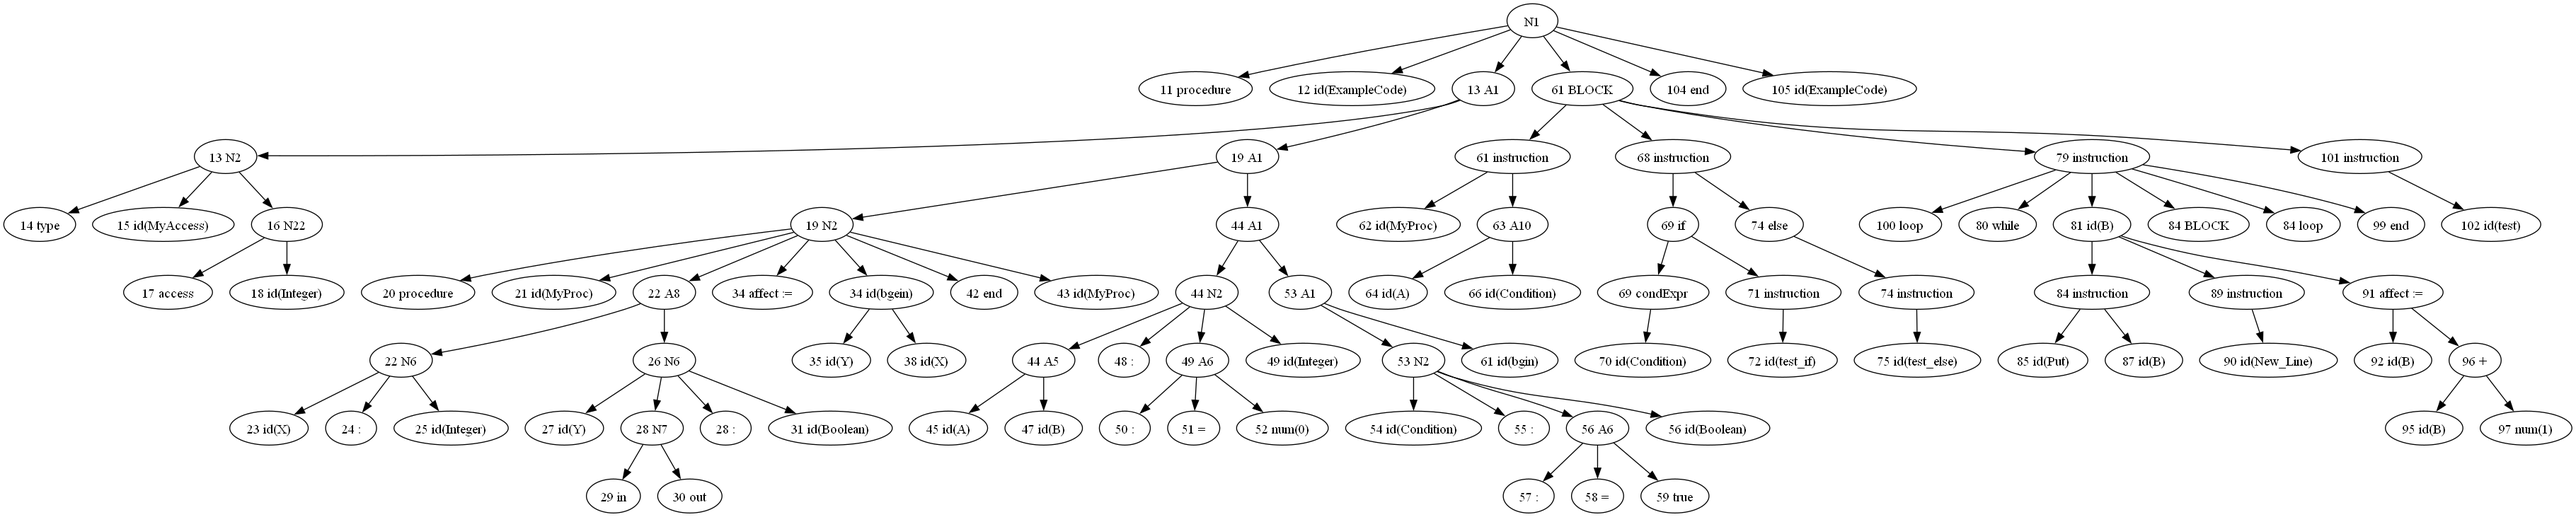
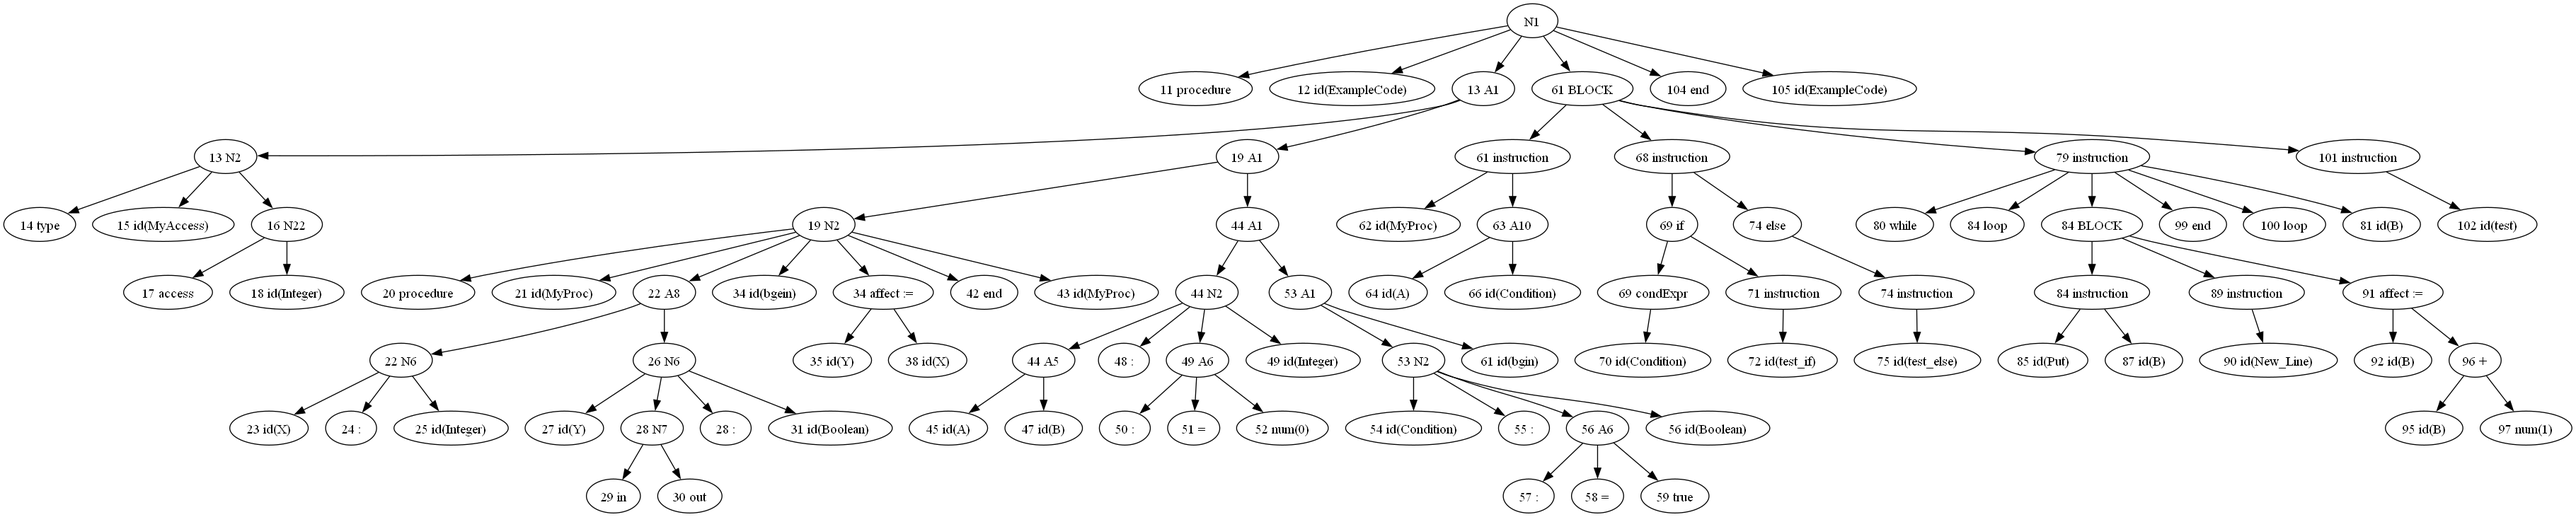
modif

diff --git a/parseur/main_parseur.py b/parseur/main_parseur.py
@@ -179,25 +179,19 @@ def generate_final_AST(root):
     for i in range(h):
         for node in PostOrderIter(root):
             clean(node)
-
-
     for node in PreOrderIter(root):
         if node.name != "N1":
             operation(node)
-
     for i in range(0, 2):
         for node in PreOrderIter(root):
             if node.name != "N1":
                 name = node.name.split(" ")
                 if name[1][:4] == "EXPR":
                     operation(node)
-
-
     for i in range(0, 5):
         for node in PreOrderIter(root):
             if node.name != 'N1':
                 supprimer_Expr(node)
-
     for node in PreOrderIter(root):
         if node.name != "N1":
             delete_node(node)
@@ -209,6 +203,24 @@ def generate_final_AST(root):
             operationCond(node)
 
     return root
+
+"""
+
+"""
+"""
+
+
+"""
+"""
+
+"""
+"""
+
+"""
+#
+"""
+
+"""
 
 
 def hauteur_arbre(root):
@@ -266,17 +278,6 @@ def operationCond(node):
     # si le noeud à 4 fils
     elif len(node.children) == 4:
         reduce_ope4(node)
-    elif len(node.children) >= 5:
-        # c'est à dire que le noeud à 5 ou plus,
-        # il faut reformer dans le bon ordre les noeuds des opérations
-        # on récupère dans un tableau tous les fils
-        fils = []
-        for i in range(len(node.children)):
-            fils.append(node.children[i].name)
-
-        fils = sorted(fils)
-        for i in range(len(node.children)):
-            node.children[i].name = fils[i]
 
 
 def countleaves(node):
@@ -347,9 +348,9 @@ def A2_destroyer(root):
 
 def test_logique(root):
     for node in PreOrderIter(root):
-        test_if(node, "Expr")
-        test_elsif(node, "Expr")
-        test_else(node, "Expr")
+        test_if(node, "BLOCK")
+        test_elsif(node, "BLOCK")
+        test_else(node, "BLOCK")
 
 
 def test_if(node, string):
